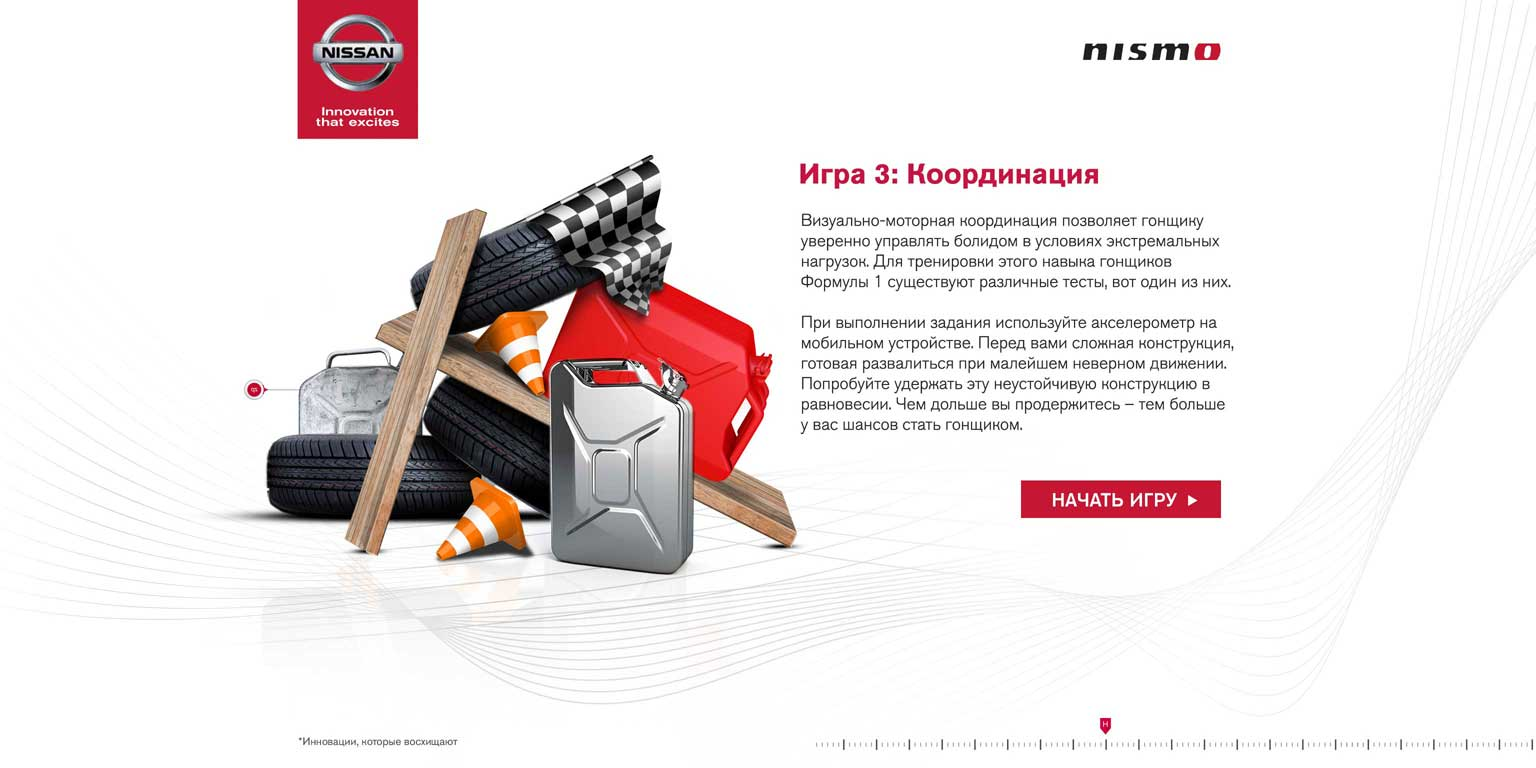
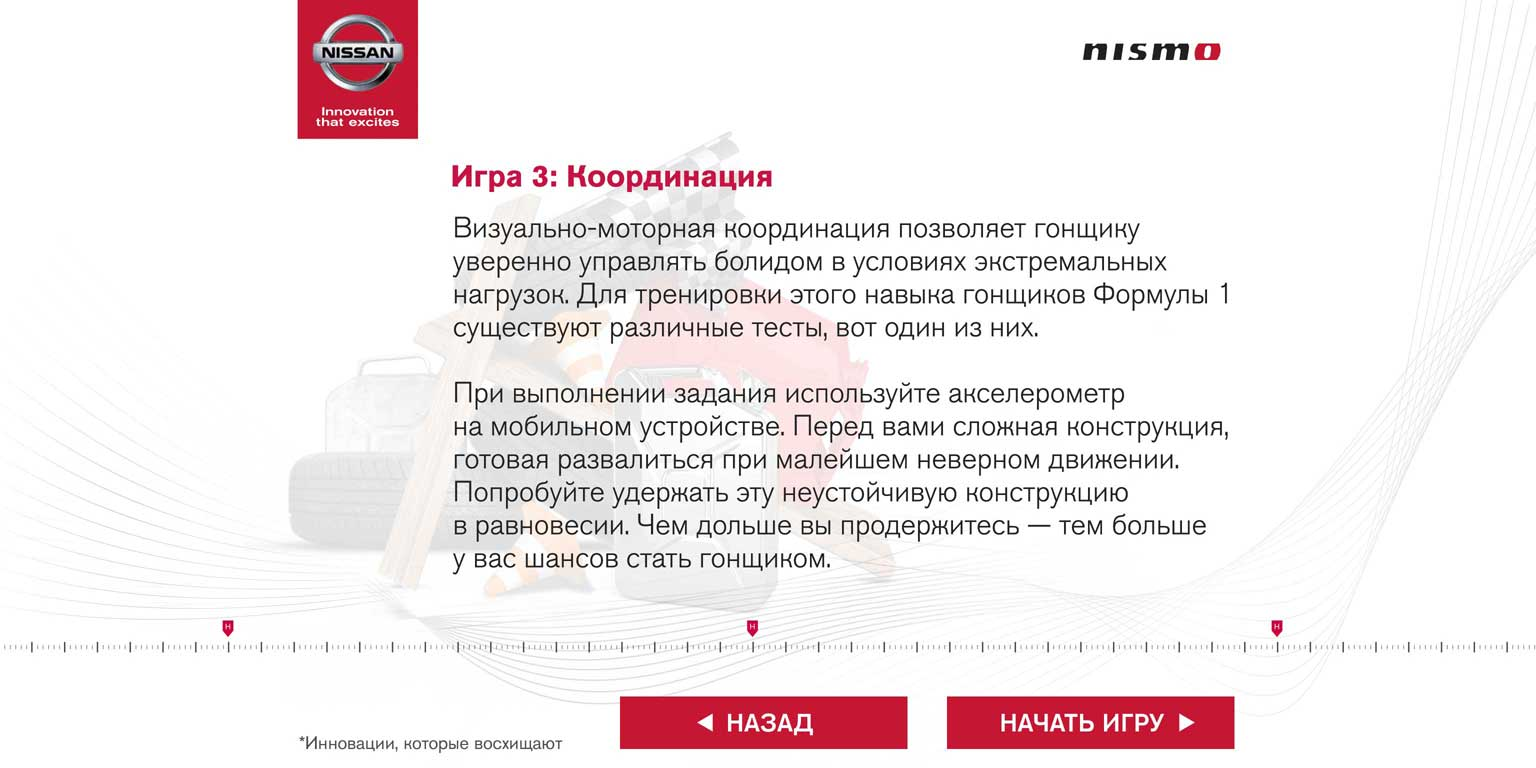
#15919

diff --git a/src/memory.js b/src/memory.js
@@ -5,11 +5,20 @@ var Memory = cc.Layer.extend({
 	menuIntro: {
 		back: assets.memoryIntroBack,
 		areas: [
+                 {
+	               x: 3072/2 - 294,
+	               y: 147 - 140,
+	               h: 140,
+	               w: 580,
+	               click: function () {
+	            	 app.runStage(new Menu(), 3);
+	               }	
+                 },
 		        {
-		        	x: 3072/2 + 530,
-		        	y: 3072/2 - 1031 - 140,
+		        	x: 3072/2 + 360,
+		        	y: 147 - 140,
 		        	h: 140,
-		        	w: 396,
+		        	w: 580,
 		        	click: function () {
 		        		cc.loader.loadJson("res/data/memory.json", function(error, data) {
 		        			app.memory.game(data);  

diff --git a/src/complex.js b/src/complex.js
@@ -5,11 +5,20 @@ var Complex = cc.Layer.extend({
 	menuIntro: {
 		back: assets.complexIntroBack,
 		areas: [
+{
+	x: 3072/2 - 294,
+	y: 147 - 140,
+	h: 140,
+	w: 580,
+	click: function () {
+		app.runStage(new Menu(), 3);
+	}	
+},		        
 		        {
-		        	x: 3072/2 + 530,
-		        	y: 3072/2 - 1031 - 140,
+		        	x: 3072/2 + 360,
+		        	y: 147 - 140,
 		        	h: 140,
-		        	w: 396,
+		        	w: 580,
 		        	click: function () {
 		        		cc.loader.loadJson("res/data/complex.json", function(error, data) {
 		        			app.complex.game(data);  

diff --git a/src/coordination.js b/src/coordination.js
@@ -5,11 +5,20 @@ var Coordination = cc.Layer.extend({
 	menuIntro: {
 		back: assets.coordinationIntroBack,
 		areas: [
+{
+	x: 3072/2 - 294,
+	y: 147 - 140,
+	h: 140,
+	w: 580,
+	click: function () {
+		app.runStage(new Menu(), 3);
+	}	
+}, 		        
 		        {
-		        	x: 3072/2 + 508,
-		        	y: 3072/2 - 954 - 140,
+		        	x: 3072/2 + 360,
+		        	y: 147 - 140,
 		        	h: 140,
-		        	w: 396,
+		        	w: 580,
 		        	click: function () {
 		        		app.coordination.game();  
 		        	}	

diff --git a/src/reaction.js b/src/reaction.js
@@ -5,11 +5,20 @@ var Reaction = cc.Layer.extend({
 	menuIntro: {
 		back: assets.reactionIntroBack,
 		areas: [
+{
+	x: 3072/2 - 294,
+	y: 147 - 140,
+	h: 140,
+	w: 580,
+	click: function () {
+		app.runStage(new Menu(), 3);
+	}	
+}, 
 		        { 
-		        	x: 1536 + 505,
-		        	y: 1536  - 667 - 140,
+		        	x: 3072/2 + 360,
+		        	y: 147 - 140,
 		        	h: 140,
-		        	w: 400,
+		        	w: 580,
 		        	click: function () {
 		        		app.reaction.game();
 		        	}

diff --git a/src/vision.js b/src/vision.js
@@ -5,11 +5,20 @@ var Vision = cc.Layer.extend({
 	menuIntro: {
 		back: assets.visionIntroBack,
 		areas: [
+{
+	x: 3072/2 - 294,
+	y: 147 - 140,
+	h: 140,
+	w: 580,
+	click: function () {
+		app.runStage(new Menu(), 3);
+	}	
+},
 		        {
-		        	x: 1536 + 506,
-		        	y: 1536 - 1270 - 140,
+		        	x: 3072/2 + 360,
+		        	y: 147 - 140,
 		        	h: 140,
-		        	w: 396,
+		        	w: 580,
 		        	click: function () {
 		        		app.vision.game();  
 		        	}	
